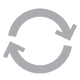
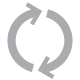
Fixed javascript error on load for non-admins (orderBy not sortBy). Made spinner background match gray

diff --git a/client/app/views/layout.js b/client/app/views/layout.js
@@ -134,7 +134,7 @@ _.constructor("Views.Layout", View.Template, {
       var organizations =
         Application.currentUser().admin() ?
           Organization.orderBy('name')
-          : Application.currentUser().confirmedMemberships().joinThrough(Organization).sortBy('name');
+          : Application.currentUser().confirmedMemberships().joinThrough(Organization).orderBy('name');
 
       organizations.onEach(this.hitch('populateOrganization'));
 

diff --git a/client/stylesheets/hyperarchy.css b/client/stylesheets/hyperarchy.css
@@ -688,7 +688,7 @@ button {
 
 .bigLoading {
   background-repeat: no-repeat;
-  background-image: url(/images/loading_arrows_large_white_bg.gif);
+  background-image: url(/images/loading_arrows_large_e6e6e6_bg.gif);
   width: 80px;
   height: 80px; }
   .bigLoading.grayBackground {

diff --git a/client/stylesheets/_global.scss b/client/stylesheets/_global.scss
@@ -134,7 +134,7 @@ button {
 
 .bigLoading {
   background-repeat: no-repeat;
-  background-image: url(/images/loading_arrows_large_white_bg.gif);
+  background-image: url(/images/loading_arrows_large_e6e6e6_bg.gif);
   width: 80px;
   height: 80px;
 
